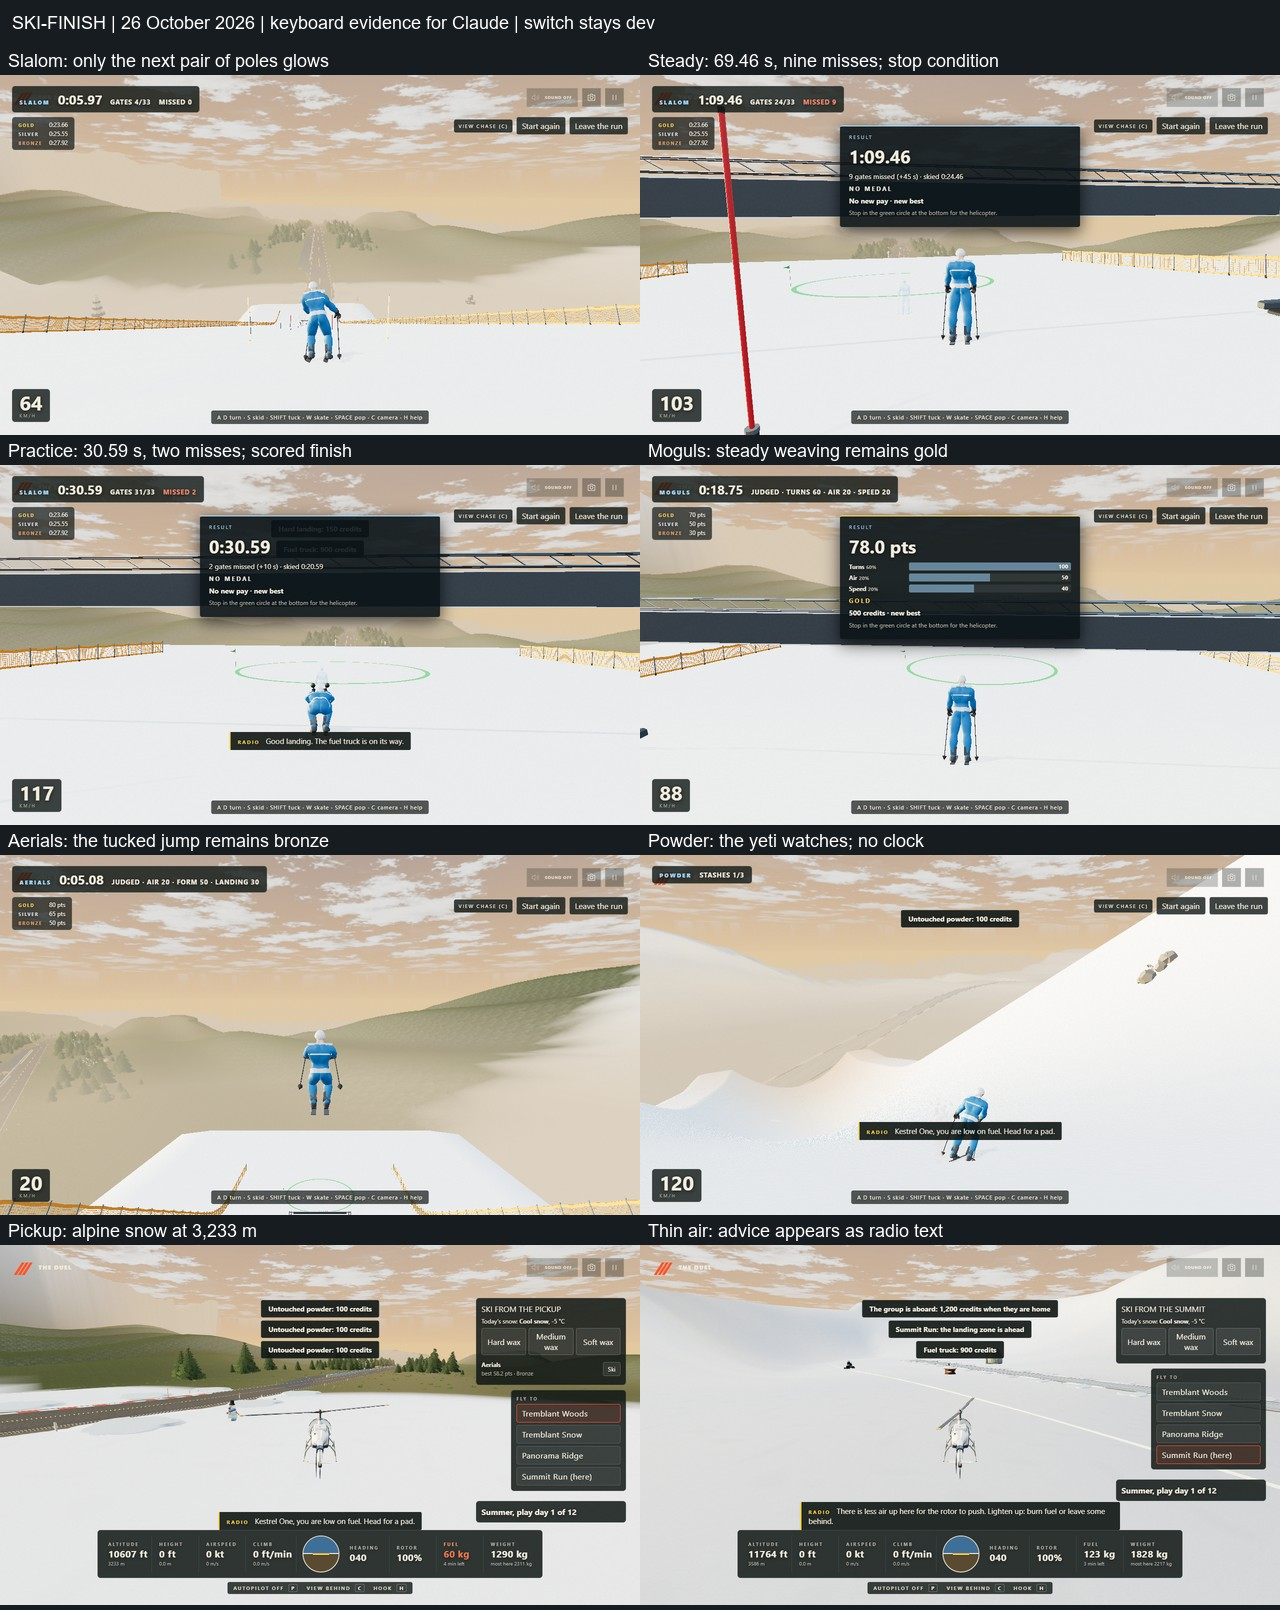
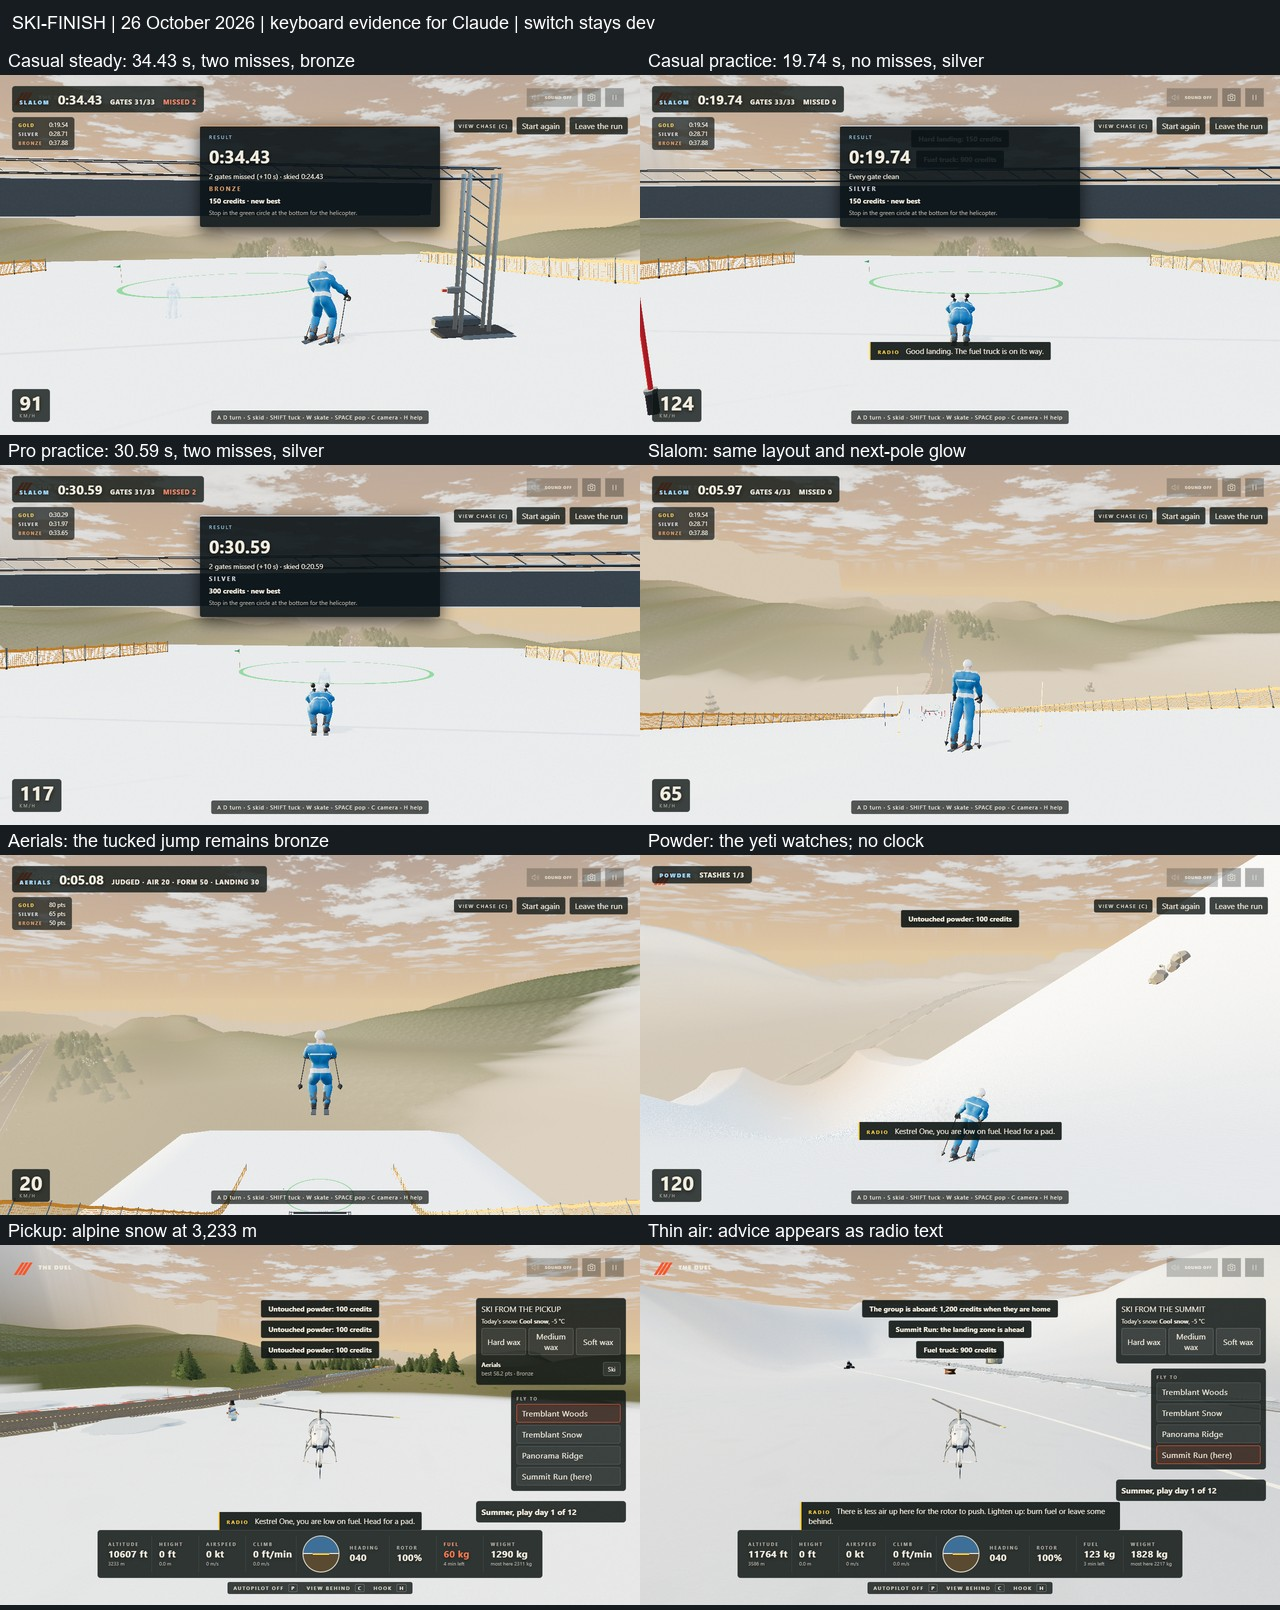
Record Casual and Pro ski results and update the comparison sheet

diff --git a/tools/art/ski-finish-sheet.py b/tools/art/ski-finish-sheet.py
@@ -1,6 +1,6 @@
 """Assemble SKI-FINISH's eight unaltered game views; resize and label only.
 
-Run after the default ski-finish recipe with output second-layout:
+Run after default output assist-casual-checked and DIFFICULTY=pro output assist-pro:
   python tools/art/ski-finish-sheet.py
 No Blender render, image generation or frame measurement is involved.
 """
@@ -11,14 +11,14 @@ ROOT = Path(__file__).resolve().parents[2]
 RAW = ROOT / '.evidence/2026-10-26/SKI-FINISH'
 OUT = ROOT / 'docs/board/looks/ski-finish/look-1.jpg'
 TILES = [
-    ('second-layout/slalom-gate.png', 'Slalom: only the next pair of poles glows'),
-    ('second-layout/slalom-finish-steady.png', 'Steady: 69.46 s, nine misses; stop condition'),
-    ('second-layout/slalom-finish-practice.png', 'Practice: 30.59 s, two misses; scored finish'),
-    ('second-layout/moguls-finish-steady.png', 'Moguls: steady weaving remains gold'),
-    ('second-layout/aerials-jump-practice.png', 'Aerials: the tucked jump remains bronze'),
-    ('second-layout/powder-yeti.png', 'Powder: the yeti watches; no clock'),
-    ('second-layout/pickup-snow.png', 'Pickup: alpine snow at 3,233 m'),
-    ('second-layout/group-summit.png', 'Thin air: advice appears as radio text'),
+    ('assist-casual-checked/slalom-finish-steady.png', 'Casual steady: 34.43 s, two misses, bronze'),
+    ('assist-casual-checked/slalom-finish-practice.png', 'Casual practice: 19.74 s, no misses, silver'),
+    ('assist-pro/slalom-finish-practice.png', 'Pro practice: 30.59 s, two misses, silver'),
+    ('assist-casual-checked/slalom-gate.png', 'Slalom: same layout and next-pole glow'),
+    ('assist-casual-checked/aerials-jump-practice.png', 'Aerials: the tucked jump remains bronze'),
+    ('assist-casual-checked/powder-yeti.png', 'Powder: the yeti watches; no clock'),
+    ('assist-casual-checked/pickup-snow.png', 'Pickup: alpine snow at 3,233 m'),
+    ('assist-casual-checked/group-summit.png', 'Thin air: advice appears as radio text'),
 ]
 sheet = Image.new('RGB', (1280, 1610), '#171c20')
 draw = ImageDraw.Draw(sheet)

diff --git a/docs/board/STATUS.md b/docs/board/STATUS.md
@@ -1,12 +1,12 @@
 # Build status
 
-Observed at: 2026-10-26T15:58:28.239Z
+Observed at: 2026-10-26T16:54:36.737Z
 
-Observation commit: 7171815c3151c71c99192a0cfe602d73ba84dab4
+Observation commit: 619cfca324f80c57b50d7cba2efad7aaaf201036
 
 This snapshot applies only to the observation commit and source state shown below. A later commit, including a metadata commit, does not inherit its full-run result.
 
-Integration HEAD: 7171815c3151c71c99192a0cfe602d73ba84dab4
+Integration HEAD: 619cfca324f80c57b50d7cba2efad7aaaf201036
 
 Integration source: dirty (only the full-tier evidence ledger is excluded).
 
@@ -16,7 +16,7 @@ Live build version: not checked
 
 Full tier: stale; exact HEAD passed: no.
 
-Last recorded full run: 2026-10-26T04:52:49.204Z; tested commit: 591d924505dc51e82f20e974a4cf564b905d2449.
+Last recorded full run: 2026-10-26T16:31:45.349Z; tested commit: de0555b0c7b00120884236c9b1c598ac16b85e73.
 
 ## Feature switches
 
@@ -44,10 +44,10 @@ These branches stay in place. Uncommitted changes may be newer than the last com
 | Branch | Card | Last commit | Age (days) | Activity | Holds |
 | --- | --- | --- | ---: | --- | --- |
 | codex/deep-finish | unknown | 2026-10-26T07:49:02-07:00 | 0 | last commit 2026-10-26T07:49:02-07:00 | docs/THE_DEEP.md, docs/board/STATUS.md, docs/board/looks/deep-finish/round-1.jpg, docs/board/looks/deep-finish/round-1.md, docs/changes/DEEP-PLACES.md |
-| codex/heli-logbook | unknown | 2026-10-26T08:56:20-07:00 | 0 | last commit 2026-10-26T08:56:20-07:00 | docs/board/STATUS.md, docs/board/board.yaml, docs/board/run-log.md, docs/changes/HELI-RETURN-LOADS.md, src/heli/heli-jobs.js |
-| codex/lab-lesson-frame | unknown | 2026-10-26T08:56:11-07:00 | 0 | last commit 2026-10-26T08:56:11-07:00 | docs/board/STATUS.md, docs/board/cards/LAB-LESSON-FRAME.md, docs/board/looks/lab-2/look-2.jpg, docs/changes/LAB-LESSON-FRAME.md, docs/lab-lesson-authoring.md |
+| codex/heli-logbook | unknown | 2026-10-26T09:53:39-07:00 | 0 | last commit 2026-10-26T09:53:39-07:00 | docs/board/STATUS.md, docs/board/cards/HELI-LOGBOOK.md, docs/changes/HELI-LOGBOOK.md, public/assets/heli/skins/rank-chief.png, public/assets/heli/skins/rank-commercial.png |
+| codex/lab-lesson-frame | unknown | 2026-10-26T09:54:11-07:00 | 0 | last commit 2026-10-26T09:54:11-07:00 | docs/board/STATUS.md, docs/board/cards/LAB-LESSON-FRAME.md, docs/board/looks/lab-2/look-2-review.md, docs/board/looks/lab-2/look-2.jpg, docs/changes/LAB-LESSON-FRAME.md |
 | codex/perf-high-night | PERF-HARBOUR-AO-HALF | 2026-10-15T00:10:54-07:00 | 11 | last commit 2026-10-15T00:10:54-07:00 | docs/changes/PERF-HIGH-NIGHT.md, src/ambient-shading.js, tools/full-check.mjs, tools/scenarios/frame-pacing.mjs, tools/test-full-check.mjs |
-| codex/summit-finish-area | unknown | 2026-10-26T08:48:30-07:00 | 0 | last commit 2026-10-26T08:48:30-07:00 | docs/board/STATUS.md, docs/board/cards/SUMMIT-FINISH-AREA.md, docs/board/looks/summit/finish-area/round-1-review.md, docs/board/looks/summit/finish-area/round-1.jpg, docs/changes/SUMMIT-FINISH-AREA.md |
+| codex/summit-finish-area | unknown | 2026-10-26T09:49:23-07:00 | 0 | last commit 2026-10-26T09:49:23-07:00 | docs/board/STATUS.md, docs/board/cards/SUMMIT-FINISH-AREA.md, docs/board/looks/summit/finish-area/round-1-review.md, docs/board/looks/summit/finish-area/round-1.jpg, docs/board/looks/summit/finish-area/round-2-review.md |
 | codex/wild-art-src | WILD-ART-SRC | 2026-10-15T00:56:24-07:00 | 11 | last commit 2026-10-15T00:56:24-07:00 | docs/changes/WILD-ART-SRC.md, tools/art/wildlife-north-woods.json, tools/blender/wildlife-north-woods.py, tools/test-blender-output.mjs |
 
 ## Size targets
@@ -61,27 +61,27 @@ Targets are advisory. Change compares with the previous status observation when 
 | Largest runtime file | 28,308,656 B | +0 B | 8,000,000 B |
 | Largest ordinary tracked file | 2,288,190 B | +0 B | 2,000,000 B |
 | Largest review sheet | 495,896 B | +0 B | 500,000 B |
-| Review `looks/` | 26,159,297 B | +734,968 B | 20,000,000 B |
-| Added bytes in last merge | 1,363,610 B | +1,120,232 B | 5,000,000 B |
+| Review `looks/` | 26,159,436 B | +139 B | 20,000,000 B |
+| Added bytes in last merge | 1,116,636 B | -246,974 B | 5,000,000 B |
 | All `public/` | 335,886,295 B | +0 B | unavailable |
-| Git objects | 762,818,560 B | +1,686,528 B | unavailable |
+| Git objects | 771,660,800 B | +8,842,240 B | unavailable |
 | Lane folders | 0 | +0 | unavailable |
 
 ## Backups
 
 Local branch refs preserve committed history in this repository; they are not a separate off-machine backup.
 
-- Local master: 8f6f966748b6ed5661a7000ee40e3943d341d2ab
+- Local master: 416b8d6ebfecfc778d5a9971eb49652cdb661cf1
 - Local main: missing
-- Local integration/wasteland: c0ce0f963988752225b1d1262148b6b23a968ca6
+- Local integration/wasteland: 8272f940452b0be7b2bc28f0b02bf532f2e9d5dd
 
 Local rollback build (dist-previous): not checked. Manifest presence does not verify the full rollback build.
 
 Remote-tracking refs are cached locally; no fetch or remote verification was performed.
 
-- Remote origin/master: matches local; cached commit 8f6f966748b6ed5661a7000ee40e3943d341d2ab.
+- Remote origin/master: matches local; cached commit 416b8d6ebfecfc778d5a9971eb49652cdb661cf1.
 - Remote origin/main: missing; cached commit missing.
-- Remote origin/integration/wasteland: matches local; cached commit c0ce0f963988752225b1d1262148b6b23a968ca6.
+- Remote origin/integration/wasteland: matches local; cached commit 8272f940452b0be7b2bc28f0b02bf532f2e9d5dd.
 
 Issue: Circuit manifest harbour-lights-dusk.js has unknown or malformed literal metadata.
 Issue: codex/deep-finish: Git inspection failed (status): fatal: detected dubious ownership in repository at 'C:/Users/kyleb/.codex/worktrees/wasteland-integration/deep-finish' 'C:/Users/kyleb/.codex/worktrees/wasteland-integration/deep-finish/.git' is owned by: 	Kyle_Laptop/kyleb (S-1-5-21-3145047164-4149896009-1733930501-1001) but the current user is: 	Kyle_Laptop/CodexSandboxOffline (S-1-5-21-3145047164-4149896009-1733930501-1003) To add an exception for this directory, call:  	git config --global --add safe.directory C:/Users/kyleb/.codex/worktrees/wasteland-integration/deep-finish

diff --git a/docs/changes/SKI-FINISH.md b/docs/changes/SKI-FINISH.md
@@ -450,3 +450,61 @@ Removed: slalom guide-based medal selection is replaced by per-difficulty
 limits. No alternate physics path, old layout, save migration, asset or new
 runtime dependency was added. Shared best/medal records and pay remain on
 the existing save path; only the current run's criteria change.
+
+| Slalom attempt | Before assist: time / misses / medal | After: time / misses / medal |
+| --- | --- | --- |
+| Casual steady, 150 ms | 69.46 s / 9 / none | 34.43 s / 2 / bronze |
+| Casual practised, 50 ms | 30.59 s / 2 / none | 19.74 s / 0 / silver |
+| Pro practised, 50 ms | 30.59 s / 2 / none | 30.59 s / 2 / silver |
+
+Times include the unchanged 5 s per miss. Casual reaches the <=3-miss target.
+Pro's movement is unchanged; only its slalom medal criteria now use the
+requested difficulty calibration. Gold needs another 0.20 s on Casual or
+0.30 s on Pro beyond these practised runs. These are scripted keyboard
+proxies, not an eleven-year-old's trial. Raw times before/after: Casual steady
+24.46/24.43, Casual practice 20.59/19.74, Pro practice 20.59/20.59 s.
+
+Corrected Casual browser completed on private port 53503, nine pictures,
+zero errors/warnings; normal App input and difficulty settings, memory-only.
+All other runs reproduce prior outcomes. Group thin-air text and snowy pickup
+still pass. The first post-resume lane attempt was not started: three other
+heavy jobs occupied the slots, as FACTORY 8 requires. Wait for capacity;
+this is not a failed test or a passing gate.
+
+Pro browser confirmation: private port 12283, two pictures, zero warnings or
+errors, explicit Pro selected through the normal menu settings API. It
+reproduces 30.5917 s / 2 misses, uses the Pro target table and earns silver.
+It skips unrelated group/other-run replay in this comparison. The corrected
+Casual packet remains the all-five-run/drop/group/pickup witness. The final
+eight-view sheet was inspected: 379,358 bytes, with the three actual slalom
+result cards and the current mountain/powder/flight views. Only resized and
+labelled; no art round or frame timing. Rebuild after default output
+`assist-casual-checked` and `DUEL_SKI_FINISH_DIFFICULTY=pro` output `assist-pro`
+using `python tools/art/ski-finish-sheet.py`.
+
+The ski session's diagnostic fingerprint now includes difficulty so the
+same pose on assisted Casual and unassisted Pro cannot be mistaken for the
+same run context. This is not an ordinary-race replay fingerprint update;
+none is regenerated. The underlying Pro step-by-step control outcome and
+raw finish time are preserved. Cockpit sync through the protected runner
+completed with zero task changes.
+
+Final validation on frozen gameplay/test source `619cfca3`: requested lane
+command `node tools/run-tests.mjs --tier lane --changed --jobs 4` passed
+70/70, zero failures/not run, 422.72 s. It covers physics 112 checks, zones
+232, ski lifecycle/assist 17 tests and view 5. Replay guard 225 checks /
+25 cases / 23 events / nine categories, combat replay guard 12 checks / four
+encounters, complete scenes 47 checks / 20 events all pass unchanged.
+`npm run build` then passed in 1.23 s; existing mixed static/dynamic import
+and large-chunk warnings remain. Both ran in PowerShell with System32 first
+on PATH, fresh under-three-job admission, jobs at most four and one-minute
+recounts within the cap. The earlier full-slot admission started no gate.
+No full tier, frame timing, release or child play-test is claimed.
+
+Subsequent edits contain only this evidence note, STATUS, the updated sheet
+and its assembly recipe, which no test reads. The feature remains dev;
+Claude still owns code/numbers and changed-assertion review plus final look
+and the later frame/release decision. No merge out of this lane or push.
+Raw successful/failed browser packets, gate/build logs and generated QA and
+production output from this session were recycled once these findings and
+the compact sheet were recorded. No player data or unrelated work removed.
